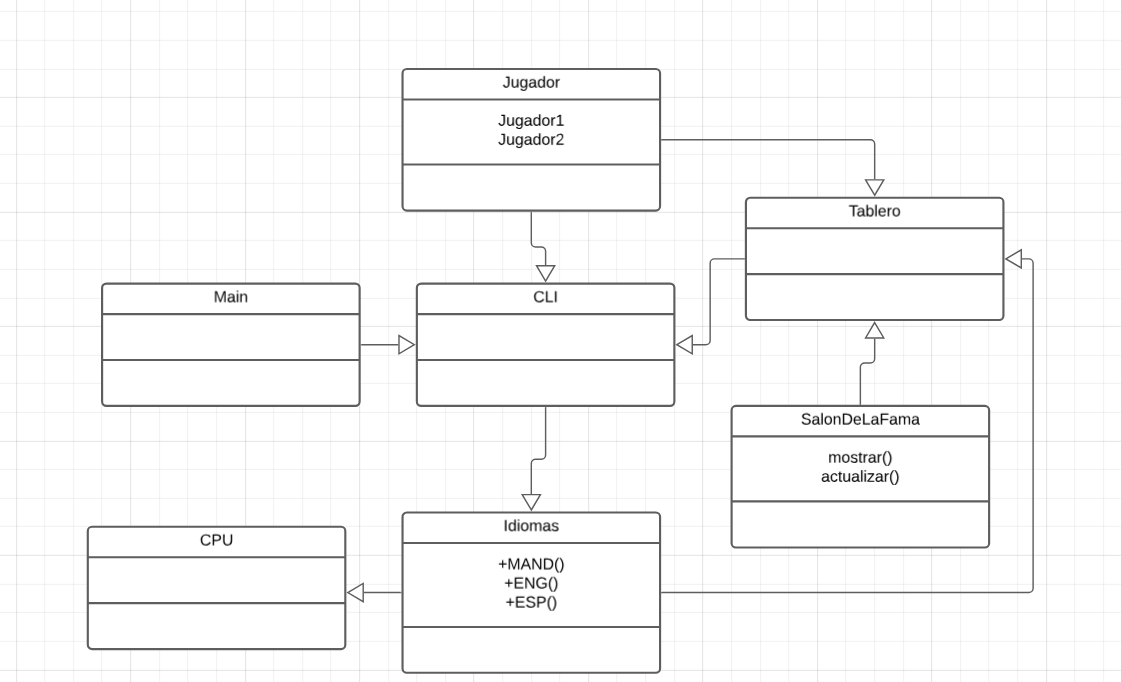
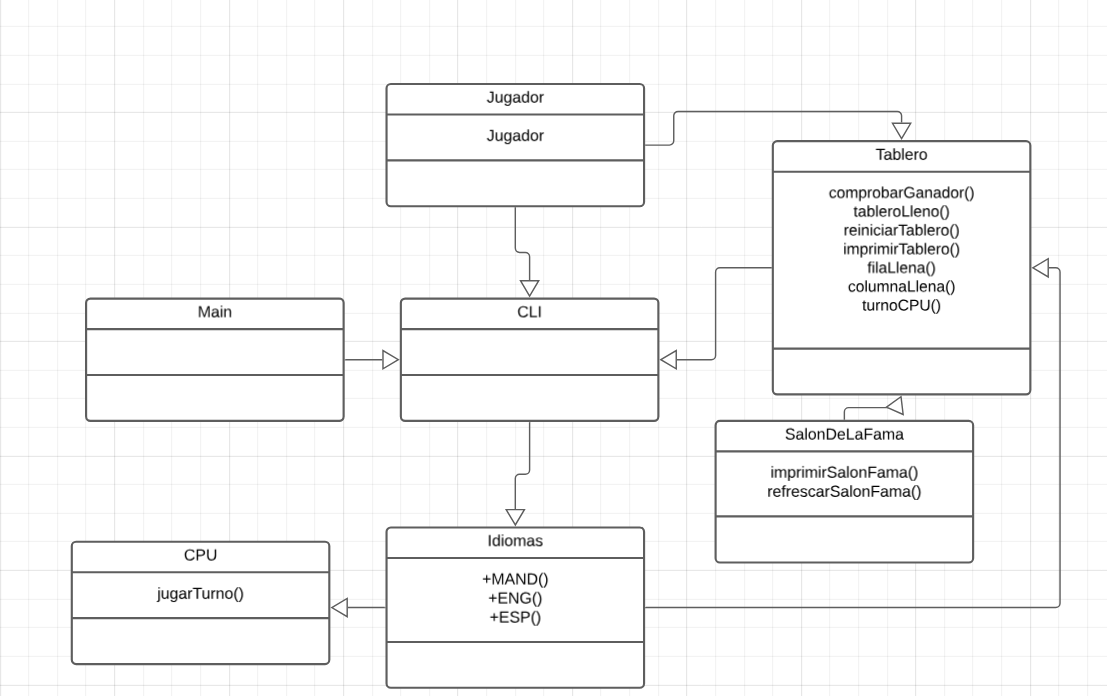
Se cambio diagrama de Flujo

Changed region(s): [[0.0614, 0.0924, 0.9521, 1.0], [0.645, 0.5543, 0.9214, 0.8314], [0.9214, 0.2155, 0.9521, 0.2771]]

diff --git a/src/edu/jesus_fdez/evidencia3/ui/Idiomas.java b/src/edu/jesus_fdez/evidencia3/ui/Idiomas.java
@@ -25,23 +25,29 @@ public class Idiomas {
     public static String NOMBRE;
     public static String TURNO;
     public static String FILA;
-    public static String FILA_INVALIDA;
+    public static String FILA_NO_VALIDA;
     public static String NUMERO_INVALIDO;
     public static String COLUMNA;
-    public static String COLUMNA_INVALIDA;
+    public static String COLUMNA_NO_VALIDA;
     public static String CASILLA_OCUPADA;
     public static String ERROR_INICIALIZACION;
     public static String TABLERO;
-    public static String COMPUTADORA_VICTORIA;
+    public static String VICTORIA_CPU;
     public static String OPCION_INVALIDA;
     public static String ERROR_INESPERADO;
+    public static String INTENTAR_NUEVAMENTE;
 
-    /**Este metodo nos permite obtener la instancia del idioma que el usuario escoja para poder
-     * asignarle un texto en dicho idioma a cada variable*/
-    public static void getInstance(String idioma) {
+    /**
+     * Este metodo nos permite obtener la instancia del idioma que el usuario escoja para poder
+     * asignarle un texto en dicho idioma a cada variable
+     *
+     * @return
+     */
+    public static Idiomas getInstance(String idioma) {
         Textos opcion = Textos.valueOf(idioma);
         switch (opcion) {
             case ESP:
+                INTENTAR_NUEVAMENTE = "¿Desea intentarlo de nuevo? (s/n): ";
                 BIENVENIDA = "¡Bienvenido al juego de tres en raya!";
                 SELECCIONE_OPCION = "Seleccione el modo de juego: ";
                 PERSONAVPERSONA = "1. Jugador contra jugador";
@@ -67,20 +73,21 @@ public class Idiomas {
                 NOMBRE = "Ingrese su nombre: ";
                 TURNO = "Turno de ";
                 FILA = "Ingrese la fila (1-3): ";
-                FILA_INVALIDA = "Fila inválida o llena. Debe ser un número entre 1 y 3 y no debe estar llena.";
+                FILA_NO_VALIDA = "Fila inválida o llena. Debe ser un número entre 1 y 3 y no debe estar llena.";
                 NUMERO_INVALIDO = "Debe ingresar un número de un solo digito entre 1 y 3. Inténtelo de nuevo.";
                 COLUMNA = "Ingrese la columna (1-3): ";
-                COLUMNA_INVALIDA = "Columna inválida o llena. Debe ser un número entre 1 y 3 y no debe estar llena.";
+                COLUMNA_NO_VALIDA = "Columna inválida o llena. Debe ser un número entre 1 y 3 y no debe estar llena.";
                 CASILLA_OCUPADA = "La casilla seleccionada está ocupada. Intente de nuevo.";
                 ERROR_INICIALIZACION = "Error: falta de inicialización de variables.";
                 TABLERO = "Tablero:";
-                COMPUTADORA_VICTORIA = "La computadora ha jugado en la posición [";
+                VICTORIA_CPU = "La computadora ha jugado en la posición [";
 
                 OPCION_INVALIDA = "Opción inválida. Por favor, seleccione una opción válida.";
                 ERROR_INESPERADO = "Error inesperado ";
                 break;
 
             case ENG:
+                INTENTAR_NUEVAMENTE = "¿Try again? (s= yes/n= no): ";
                 BIENVENIDA = "Welcome to the game of tic-tac-toe!";
                 SELECCIONE_OPCION = "Select game mode: ";
                 PERSONAVPERSONA = "1. Player vs. player";
@@ -105,14 +112,14 @@ public class Idiomas {
                 NOMBRE = "Enter your name: ";
                 TURNO = "Turn of ";
                 FILA = "Enter row (1-3): ";
-                FILA_INVALIDA = "Invalid or full row. Must be a number between 1 and 3 and must not be full";
+                FILA_NO_VALIDA = "Invalid or full row. Must be a number between 1 and 3 and must not be full";
                 NUMERO_INVALIDO = "You must enter a single digit number between 1 and 3. Try again.";
                 COLUMNA = "Enter column (1-3): ";
-                COLUMNA_INVALIDA = "Invalid or full column. Must be a number between 1 and 3 and must not be full.";
+                COLUMNA_NO_VALIDA = "Invalid or full column. Must be a number between 1 and 3 and must not be full.";
                 CASILLA_OCUPADA = "The selected column is already full. Please try again.";
                 ERROR_INICIALIZACION = "Error: variable initialisation failed.";
                 TABLERO = "Board:";
-                COMPUTADORA_VICTORIA = "The computer has played in position [";
+                VICTORIA_CPU = "The computer has played in position [";
 
                 OPCION_INVALIDA = "Invalid option. Please select a valid option.";
                 ERROR_INESPERADO = "Unexpected error ";
@@ -141,21 +148,23 @@ public class Idiomas {
                 NOMBRE = "请输入你的名字：";
                 TURNO = "轮到你了。";
                 FILA = "请输入一行 (1-3)： ";
-                FILA_INVALIDA = "行无效或完整。 1 到 3 的数字不应是完整的。";
+                FILA_NO_VALIDA = "行无效或完整。 1 到 3 的数字不应是完整的。";
                 NUMERO_INVALIDO = "请输入 1 到 3 之间的一位数字。再次键入。";
                 COLUMNA = "请输入第（1-3）栏： ";
-                COLUMNA_INVALIDA = "列无效或已满。它应该是从一到三的数字，并且不应该是完整的。";
+                COLUMNA_NO_VALIDA = "列无效或已满。它应该是从一到三的数字，并且不应该是完整的。";
                 CASILLA_OCUPADA = "所选方格已填满。请再试一次。";
                 ERROR_INICIALIZACION = "错误：缺少变量初始化。";
                 TABLERO = "错误：缺少变量初始化。";
-                COMPUTADORA_VICTORIA = "“计算机发挥了作用[";
+                VICTORIA_CPU = "“计算机发挥了作用[";
 
                 OPCION_INVALIDA = "无效选项。请选择一个有效的选项。 ";
                 ERROR_INESPERADO = "意外的错误";
+                INTENTAR_NUEVAMENTE = "再试一次吗？（s= 是/n= 否";
                 break;
             default:
                 throw new IllegalArgumentException("Invalid language selection");
         }
+        return null;
     }
 
     private enum Textos {

diff --git a/src/edu/jesus_fdez/evidencia3/ui/CLI.java b/src/edu/jesus_fdez/evidencia3/ui/CLI.java
@@ -16,7 +16,7 @@ public class CLI {
     static Scanner scanner = new Scanner(System.in);
 
     /**Este metodo imprime el menu de idiomas.*/
-    public static void mostrarMenuIdiomas() {
+    public static void menuIdiomas() {
         System.out.println("""
                 --------------------------------------------------------------------------
                 Seleccione su idioma / Select your language / 选择您使用的语言:
@@ -47,13 +47,13 @@ public class CLI {
 
     /**Este metodo nos permite iniciar el juego con un bucle en el que se define el modo de juego y que,
      * si el usuario desea, puede jugar otra partida.*/
-    public static void iniciarJuego() {
+    public static void startGame() {
 
         do {
             if (!contraComputadora) {
                 jugarContraJugador();
             } else {
-                jugarContraComputadora();
+                jugarContraCPU();
             }
 
             System.out.println(Idiomas.JUGAR_DE_NUEVO);
@@ -74,7 +74,7 @@ public class CLI {
 
         } while (true);
         // Mostrar el salón de la fama al finalizar el juego
-        salonDeLaFama.mostrar();
+        salonDeLaFama.imprimirSalonFama();
     }
 
     /**Este metodo es el que nos permite jugar contra otro jugador, contiene validaciones de ingreso de datos.*/
@@ -133,7 +133,7 @@ public class CLI {
                 turnoJugador(jugador2);
             }
 
-            if (verificarVictoria()) {
+            if (comprobarGanador()) {
                 System.out.println("¡" + (turnoJugador1 ? jugador1.getNombre() : jugador2.getNombre()) +
                         Idiomas.HA_GANADO);
                 break;
@@ -147,16 +147,16 @@ public class CLI {
         }
 
         // Actualizar el salón de la fama
-        if (verificarVictoria()) {
-            salonDeLaFama.actualizar(turnoJugador1 ? jugador1.getNombre() : jugador2.getNombre());
+        if (comprobarGanador()) {
+            salonDeLaFama.refrescarSalonFama(turnoJugador1 ? jugador1.getNombre() : jugador2.getNombre());
         }
 
         // Imprimir el salón de la fama al final de la partida
-        salonDeLaFama.mostrar();
+        salonDeLaFama.imprimirSalonFama();
     }
 
     /**Este metodo nos permite jugar contra la computadora*/
-    public static void jugarContraComputadora(){
+    public static void jugarContraCPU(){
         System.out.println(Idiomas.NUEVA_PARTIDA);
         System.out.print(Idiomas.NOMBRE);
         String nombreJugador1 = scanner.nextLine();
@@ -183,10 +183,10 @@ public class CLI {
             if (turnoJugador1) {
                 turnoJugador(jugador1);
             } else {
-                turnoComputadora();
+                turnoCPU();
             }
 
-            if (verificarVictoria()) {
+            if (comprobarGanador()) {
                 System.out.println("¡" + (turnoJugador1 ? jugador1.getNombre() : jugador2.getNombre()) +
                         Idiomas.HA_GANADO);
                 break;
@@ -200,8 +200,8 @@ public class CLI {
         }
 
         // Actualizar el salón de la fama
-        if (verificarVictoria()) {
-            salonDeLaFama.actualizar(jugador1.getNombre());
+        if (comprobarGanador()) {
+            salonDeLaFama.refrescarSalonFama(jugador1.getNombre());
         }
     }
 
@@ -221,7 +221,7 @@ public class CLI {
                 fila = -1; // Valor inválido para continuar el bucle
             }
             if (fila < 0 || fila > 2 || filaLlena(fila)) {
-                System.out.println(Idiomas.FILA_INVALIDA);
+                System.out.println(Idiomas.FILA_NO_VALIDA);
             }
         } while (fila < 0 || fila > 2 || filaLlena(fila));
 
@@ -237,7 +237,7 @@ public class CLI {
                 columna = -1; // Valor inválido para continuar el bucle
             }
             if (columna < 0 || columna > 2 || columnaLlena(columna)) {
-                System.out.println(Idiomas.COLUMNA_INVALIDA);
+                System.out.println(Idiomas.COLUMNA_NO_VALIDA);
             }
         } while (columna < 0 || columna > 2 || columnaLlena(columna));
 
@@ -254,14 +254,38 @@ public class CLI {
 
     /**Este metodo es el que nos permite iniciar
      *  toda la aplicacion.*/
-    public static void launchGame() {
-        mostrarMenuIdiomas();
-        String idiomaSeleccionado = scanner.nextLine().toUpperCase();
-        Idiomas.getInstance(idiomaSeleccionado);
+    public static void launchApp() {
+        boolean idiomaValido = false;
+        do {
+            try {
+                menuIdiomas();
+                String idiomaSeleccionado = scanner.nextLine().toUpperCase();
+                Idiomas idioma = Idiomas.getInstance(idiomaSeleccionado);
+                if (idioma == null) {
+                    throw new IllegalArgumentException("Idioma no válido: " + idiomaSeleccionado);
+                }
+
+                // Resto de la lógica aquí
+                contraComputadora = seleccionarModoJuego(); // Obtener el valor del modo de juego
+                Tablero juego = new Tablero(contraComputadora); // Crear una instancia de Juego con el modo de juego seleccionado
+                startGame();
+
+                idiomaValido = true; // Si llegamos aquí, el idioma es válido y podemos salir del bucle
+            } catch (IllegalArgumentException e) {
+                System.err.println("Error: " + e.getMessage());
+                System.out.println("¿Desea intentarlo de nuevo? (s/n): ");
+                String respuesta = scanner.nextLine();
+                if (!respuesta.equalsIgnoreCase("s")) {
+                    break; // Si la respuesta no es "s", salimos del bucle
+                }
+            } catch (Exception e) {
+                System.err.println(Idiomas.ERROR_INESPERADO);
+            }
+        } while (!idiomaValido);
 
         contraComputadora = seleccionarModoJuego(); // Obtener el valor del modo de juego
         Tablero juego = new Tablero(contraComputadora); // Crear una instancia de Juego con el modo de juego seleccionado
 
-        iniciarJuego();
+        startGame();
     }
 }

diff --git a/src/edu/jesus_fdez/evidencia3/process/Tablero.java b/src/edu/jesus_fdez/evidencia3/process/Tablero.java
@@ -58,7 +58,7 @@ public class Tablero {
     }
 
     /**Definimos este metodo para asignarle un simbolo a la computadora y que pueda jugar.*/
-    public static void turnoComputadora() {
+    public static void turnoCPU() {
         if (juegoComputadora != null) {
             juegoComputadora.setSimbolo(jugador2.getSimbolo().charAt(0)); // Establece el símbolo de la computadora
             juegoComputadora.jugarTurno(tablero); // Llama al método jugarTurno de JuegoComputadora
@@ -69,7 +69,7 @@ public class Tablero {
     }
 
     /**ESte metodo nos permite verificar que alguien haya ganado en cualquiera de las posiciones ganadoras.*/
-    public static boolean verificarVictoria() {
+    public static boolean comprobarGanador() {
         for (int i = 0; i < 3; i++) {
             if (tablero[i][0] != '-' && tablero[i][0] == tablero[i][1] && tablero[i][0] == tablero[i][2]) {
                 return true; // Verificación horizontal

diff --git a/src/edu/jesus_fdez/evidencia3/data/SalonDeLaFama.java b/src/edu/jesus_fdez/evidencia3/data/SalonDeLaFama.java
@@ -13,7 +13,7 @@ public class SalonDeLaFama {
     }
 
     /**Este metodo nos permite actualizar el salon de la fama.*/
-    public void actualizar(String nombreGanador){
+    public void refrescarSalonFama(String nombreGanador){
         if (!jugadores.containsKey(nombreGanador)) {
             if (jugadores.size() < MAX_JUGADORES) {
                 jugadores.put(nombreGanador, 1);
@@ -31,7 +31,7 @@ public class SalonDeLaFama {
     }
 
     /**Este metodo sirve para imprimir el salon de la fama.*/
-    public void mostrar() {
+    public void imprimirSalonFama() {
         System.out.println("Salón de la Fama:");
         jugadores.entrySet().stream()
                 .sorted(Map.Entry.<String, Integer>comparingByValue().reversed())

diff --git a/src/edu/jesus_fdez/evidencia3/process/CPU.java b/src/edu/jesus_fdez/evidencia3/process/CPU.java
@@ -34,6 +34,6 @@ public class CPU {
         tablero[fila][columna] = simbolo;
         fila = fila + 1;
         columna = columna + 1;
-        System.out.println(Idiomas.COMPUTADORA_VICTORIA + fila + "][" + columna + "]");
+        System.out.println(Idiomas.VICTORIA_CPU + fila + "][" + columna + "]");
     }
 }

diff --git a/src/edu/jesus_fdez/evidencia3/Main.java b/src/edu/jesus_fdez/evidencia3/Main.java
@@ -5,7 +5,7 @@ import edu.jesus_fdez.evidencia3.ui.*;
 public class Main {
     public static void main(String[] args) {
         try{
-            CLI.launchGame();
+            CLI.launchApp();
         }catch (Exception e ){
             System.out.println(Idiomas.ERROR_INESPERADO +e);
         }
